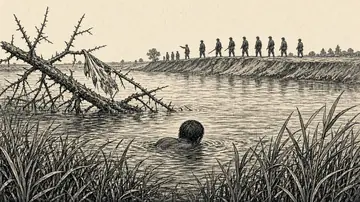
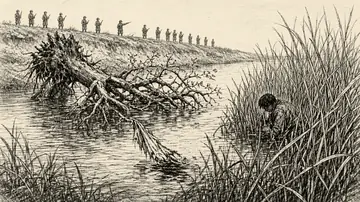
五 我们家：替换插图 p13（跳河一节）为新版，并更新图说
Claude-Session: https://claude.ai/code/session_01Cp3eoT3zaAUDNuq9PFDFqu

diff --git a/hua.html b/hua.html
@@ -27,6 +27,6 @@
 <button id="theme" title="切换夜读">夜读</button>
 <button data-open-toc>目录</button>
 <div class="progress"></div>
-</header><div class="drawer" id="drawer" aria-hidden="true"><div class="scrim" data-close-toc></div><nav aria-label="目录"><button class="close" data-close-toc>关闭 ✕</button><a href="index.html">封面</a><h2>序言</h2><a href="xu.html">序</a><a href="zixu.html">自序</a><h2>往事</h2><a href="c01.html">一 范氏家族</a><a href="c02.html">二 我的祖父母</a><a href="c03.html">三 大爷爷一家</a><a href="c04.html">四 三爷爷一家</a><a href="c05.html">五 我们家</a><a href="c06.html">六 母亲的冤案</a><a href="c07.html">七 挣扎</a><a href="c08.html">八 童年记忆</a><a href="c09.html">九 少年时代</a><a href="c10.html">十 灰色青春</a><a href="c11.html">十一 拨云见日</a><a href="c12.html">十二 沉重年代</a><a href="c13.html">十三 回归</a><h2>生活纪事</h2><a href="j01.html">一 沙果大王赵子洪</a><a href="j02.html">二 白老歪</a><a href="j03.html">三 黄二爷</a><a href="j04.html">四 杨友德</a><a href="j05.html">五 张书华的苦恼</a><a href="j06.html">六 大老妈的牌坊</a><a href="j07.html">七 高维刚</a><a href="j08.html">八“大干苦干加二十三干”</a><a href="j09.html">九 工业大检查</a><h2>后记</h2><a href="houji.html">后记</a><h2>附</h2><a href="hua.html" aria-current="page">画卷</a><a href="about.html">版权页</a></nav></div><main class="section" style="border-top:0"><h2>画卷 · 47 幅</h2><div class="gallery"><a href="zixu.html#p01"><div class="frame"><img src="img/p01.webp" loading="lazy" decoding="async" width="1280" height="720" alt="土炕、木门与水缸，屋门后挂着一绺红丝线"></div><div class="cap"><b>自序</b>套间屋门后里有一绺红丝线，每根线上纫着一根绣花针。</div></a><a href="zixu.html#p02"><div class="frame"><img src="img/p02.webp" loading="lazy" decoding="async" width="1280" height="720" alt="油灯下，奶奶拿着孩子的鞋坐在炕沿，给发烧的孙女叫魂"></div><div class="cap"><b>自序</b>鞋磕炕，炕磕鞋，漫山遍野自己来，建华来家啊。</div></a><a href="c01.html#p03"><div class="frame"><img src="img/p03.webp" loading="lazy" decoding="async" width="1280" height="720" alt="老人骑驴走向石拱桥，远处是村庄与柳树"></div><div class="cap"><b>一 范氏家族</b>有一天他骑着他那头心爱的毛驴去北张氏赶集，过桥时突然驴失前蹄</div></a><a href="c02.html#p04"><div class="frame"><img src="img/p04.webp" loading="lazy" decoding="async" width="1280" height="720" alt="园子里桃树挂果，四周高大的楸树，有人在菜畦里锄地"></div><div class="cap"><b>二 我的祖父母</b>他在分家分到的菜园子周围栽上了一圈楸树，中间栽上了各种果树</div></a><a href="c02.html#p05"><div class="frame"><img src="img/p05.webp" loading="lazy" decoding="async" width="1280" height="720" alt="高粱地头，母亲举起高粱秸，孩子从小毛驴背上跌下"></div><div class="cap"><b>二 我的祖父母</b>抓起一根高粱秸，把他一竿子从驴背上打了下来。</div></a><a href="c02.html#p06"><div class="frame"><img src="img/p06.webp" loading="lazy" decoding="async" width="1280" height="720" alt="小女孩站在炕上，仰头望着墙上吊着的咸干鱼"></div><div class="cap"><b>二 我的祖父母</b>她把鱼吊在炕尾的墙边上，我闻着那个咸干鱼香死了</div></a><a href="c02.html#p07"><div class="frame"><img src="img/p07.webp" loading="lazy" decoding="async" width="1280" height="720" alt="窗台上一张草纸摊着晒干的种子，窗外是菜园"></div><div class="cap"><b>二 我的祖父母</b>哄着那小孩儿把洋柿子的种子挤出来一点，放到一张草纸上，晒干收藏起来。</div></a><a href="c03.html#p08"><div class="frame"><img src="img/p08.webp" loading="lazy" decoding="async" width="1280" height="720" alt="场院里，孩子拉着拴绳的小板凳奔跑，大门口有人张望"></div><div class="cap"><b>三 大爷爷一家</b>叫孩子到场院中央拉着板凳当马，拼命地跑。</div></a><a href="c03.html#p09"><div class="frame"><img src="img/p09.webp" loading="lazy" decoding="async" width="1280" height="720" alt="村外地里，一副打碎的眼镜和一只鞋，脚印延向远处"></div><div class="cap"><b>三 大爷爷一家</b>发现了他被打坏的近视眼镜，再往前又找到他的一只鞋</div></a><a href="c03.html#p10"><div class="frame"><img src="img/p10.webp" loading="lazy" decoding="async" width="1280" height="720" alt="大雨中，两个女人打着油纸伞站在路口"></div><div class="cap"><b>三 大爷爷一家</b>离约定的时间还差一个时辰，她们就冒雨到了约定的地点。</div></a><a href="c04.html#p11"><div class="frame"><img src="img/p11.webp" loading="lazy" decoding="async" width="1280" height="720" alt="西大门口老人高声呼喊，麦田里一个年轻人飞跑"></div><div class="cap"><b>四 三爷爷一家</b>人们事后开玩笑说，他一步跳十八条垅。</div></a><a href="c04.html#p12"><div class="frame"><img src="img/p12.webp" loading="lazy" decoding="async" width="1280" height="720" alt="荒凉的小院，破窗、空鸡笼、石臼与板凳"></div><div class="cap"><b>四 三爷爷一家</b>她也年纪大了，一个人孤苦伶仃过日子，农业社无人管她。</div></a><a href="c05.html#p13"><div class="frame"><img src="img/p13.webp" loading="lazy" decoding="async" width="1280" height="720" alt="河里一人只露出头，岸上一队士兵走过，水中横着带刺的枣树"></div><div class="cap"><b>五 我们家</b>这时人已经跑到了大河边，一个猛子扎进水里。</div></a><a href="c05.html#p14"><div class="frame"><img src="img/p14.webp" loading="lazy" decoding="async" width="1280" height="720" alt="一对年轻夫妇手拉手站在土堆上，村民围着看"></div><div class="cap"><b>五 我们家</b>来！你们到前面来，大大方方地看吧，济着你们看个够。</div></a><a href="c06.html#p15"><div class="frame"><img src="img/p15.webp" loading="lazy" decoding="async" width="1280" height="720" alt="诊室门上贴着交叉的封条，少女站在炕边，弟妹在被窝里"></div><div class="cap"><b>六 母亲的冤案</b>进门看到的是诊室的封条，炕上哭泣的弟弟妹妹。</div></a><a href="c06.html#p16"><div class="frame"><img src="img/p16.webp" loading="lazy" decoding="async" width="1280" height="720" alt="少女抱着襁褓，沿杨树大道走向看守所"></div><div class="cap"><b>六 母亲的冤案</b>急忙回家抱起小弟，跑到沙河镇西郊公安看守所去，让妈妈给小弟喂奶。</div></a><a href="c06.html#p17"><div class="frame"><img src="img/p17.webp" loading="lazy" decoding="async" width="1280" height="720" alt="镇上街头，人群围看墙上的大红纸"></div><div class="cap"><b>六 母亲的冤案</b>爸爸亲笔把仲裁书用大红纸以大字报的形式写出来，贴到大街上。</div></a><a href="c07.html#p18"><div class="frame"><img src="img/p18.webp" loading="lazy" decoding="async" width="1280" height="720" alt="深夜灯下，年轻女子撑着头，一人守着，一人在床上睡"></div><div class="cap"><b>七 挣扎</b>用猎人熬鹰的办法，不让我闭眼，不让休息，不停地盘问</div></a><a href="c07.html#p19"><div class="frame"><img src="img/p19.webp" loading="lazy" decoding="async" width="1280" height="720" alt="大年初一，结冰的河边，母亲蹲着洗衣，女儿骑车远远赶来"></div><div class="cap"><b>七 挣扎</b>远远地看见光秃秃的河岸边，一个老妇人佝偻着身体，独自一人在河里洗衣服</div></a><a href="c08.html#p20"><div class="frame"><img src="img/p20.webp" loading="lazy" decoding="async" width="1280" height="720" alt="院墙下一排向日葵，墙头站着母鸡，筐边一只白老鼠"></div><div class="cap"><b>八 童年记忆</b>本应该向南的花头却朝向北。</div></a><a href="c08.html#p21"><div class="frame"><img src="img/p21.webp" loading="lazy" decoding="async" width="1280" height="720" alt="孩子骑在果树杈上，树下一群小鸡围着转"></div><div class="cap"><b>八 童年记忆</b>小鸡们在树下吱吱叫着，围着树团团转</div></a><a href="c08.html#p22"><div class="frame"><img src="img/p22.webp" loading="lazy" decoding="async" width="1280" height="720" alt="中秋月下，孩子们捧着小笸箩聚在井台边"></div><div class="cap"><b>八 童年记忆</b>念月儿来，念月儿来，一斗麦子一个来</div></a><a href="c09.html#p23"><div class="frame"><img src="img/p23.webp" loading="lazy" decoding="async" width="1280" height="720" alt="村头土台上两人扛着镢头演出，村民坐满场院"></div><div class="cap"><b>九 少年时代</b>在农闲时参加村里青年们排练的小歌舞剧，很受村民和孩子们的追捧。</div></a><a href="c09.html#p24"><div class="frame"><img src="img/p24.webp" loading="lazy" decoding="async" width="1280" height="720" alt="灯下少女坐在床边写字，小弟弟枕着她的腿睡着"></div><div class="cap"><b>九 少年时代</b>等弟弟玩得睏了，就让他躺在我腿上睡着，我在他的肚子上写作业。</div></a><a href="c10.html#p25"><div class="frame"><img src="img/p25.webp" loading="lazy" decoding="async" width="1280" height="720" alt="夜里的站台，女儿提着箱子登车回望，母亲送别"></div><div class="cap"><b>十 灰色青春</b>回到潍坊第二天晚上，妈妈送我到车站，我顺利地乘上了去东北的火车。</div></a><a href="c10.html#p26"><div class="frame"><img src="img/p26.webp" loading="lazy" decoding="async" width="1280" height="720" alt="两扇牢门半掩，一根大葱从一边抛向另一边"></div><div class="cap"><b>十 灰色青春</b>他也同样把另一扇门推小一点， 我趁机把葱扔给他。</div></a><a href="c11.html#p27"><div class="frame"><img src="img/p27.webp" loading="lazy" decoding="async" width="1280" height="720" alt="办公桌上一只档案袋、墨水瓶与算盘，窗外是矿井井架"></div><div class="cap"><b>十一 拨云见日</b>按程序把我的档案、工作关系转给了我们矿党委干部科，恢复了我的在编干部关系</div></a><a href="c12.html#p28"><div class="frame"><img src="img/p28.webp" loading="lazy" decoding="async" width="1280" height="720" alt="夜里大喇叭作响，几个戴袖章的人扛着一包印章跑过办公楼"></div><div class="cap"><b>十二 沉重年代</b>把各个科室的印章没收了一大包，藏起来啦。</div></a><a href="c12.html#p29"><div class="frame"><img src="img/p29.webp" loading="lazy" decoding="async" width="1280" height="720" alt="站台上人群挤向列车，有人从车窗往里爬"></div><div class="cap"><b>十二 沉重年代</b>好多人是硬从车窗上爬进来的。</div></a><a href="c12.html#p30"><div class="frame"><img src="img/p30.webp" loading="lazy" decoding="async" width="1280" height="720" alt="旷野上无数人席地而坐，远处尘土飞扬"></div><div class="cap"><b>十二 沉重年代</b>按编制排好队，席地而坐，等着吧。</div></a><a href="c13.html#p31"><div class="frame"><img src="img/p31.webp" loading="lazy" decoding="async" width="1280" height="720" alt="办公楼后，一个女人把粮票递给蹲着挖野菜的大嫂"></div><div class="cap"><b>十三 回归</b>她十分感激我解了她的燃眉之急，顺便拉起山东老家，又攀上了老乡关系。</div></a><a href="c13.html#p32"><div class="frame"><img src="img/p32.webp" loading="lazy" decoding="async" width="1280" height="720" alt="雪天办公室里，女子读信，门口站着一位老干部"></div><div class="cap"><b>十三 回归</b>年三十下午提前放假，我特意在办公室留到最后</div></a><a href="c13.html#p33"><div class="frame"><img src="img/p33.webp" loading="lazy" decoding="async" width="1280" height="720" alt="雪地铁路旁，母亲领着孩子守着行李，火车开来"></div><div class="cap"><b>十三 回归</b>一家大小才买上了车票，登上了返回老家的火车。</div></a><a href="j01.html#p34"><div class="frame"><img src="img/p34.webp" loading="lazy" decoding="async" width="1280" height="720" alt="一车香瓜，家属在车上挑拣，女教师站出来说理，看门人拦着众人"></div><div class="cap"><b>一 沙果大王赵子洪</b>就见他只让矿领导的家属们先到车上挑拣，我们不准靠前。</div></a><a href="j02.html#p35"><div class="frame"><img src="img/p35.webp" loading="lazy" decoding="async" width="1280" height="720" alt="澡堂门口，女教师站在门槛上，白老歪夫妇堵门，三个孩子在哭，众人围看"></div><div class="cap"><b>二 白老歪</b>我站在门槛上，居高临下，喊了一声：“白大哥你好？”</div></a><a href="j03.html#p36"><div class="frame"><img src="img/p36.webp" loading="lazy" decoding="async" width="1280" height="720" alt="书记办公室门外，一个老干部立正擦汗"></div><div class="cap"><b>三 黄二爷</b>不大一会儿，刘科长气喘吁吁跑步来到，五十多岁的老头子立正站在办公室门外。</div></a><a href="j04.html#p37"><div class="frame"><img src="img/p37.webp" loading="lazy" decoding="async" width="1280" height="720" alt="一只手合上桌上的墨水盒，旁边是电话听筒与蘸水笔"></div><div class="cap"><b>四 杨友德</b>举报人拿过他桌子上的墨水盒，把敞开的盒盖儿一盖</div></a><a href="j05.html#p38"><div class="frame"><img src="img/p38.webp" loading="lazy" decoding="async" width="1280" height="720" alt="矿区土路正中，一个女人提着奶桶昂首走着"></div><div class="cap"><b>五 张书华的苦恼</b>我真的大着胆子，挺胸抬头走了大道中间</div></a><a href="j06.html#p39"><div class="frame"><img src="img/p39.webp" loading="lazy" decoding="async" width="1280" height="720" alt="大宅院里，年轻寡妇弯腰搬动一排排土坯"></div><div class="cap"><b>六 大老妈的牌坊</b>你需要干的活儿，就是白天把这些堲搬到院子里晒，晚上搬进屋里来</div></a><a href="j06.html#p40"><div class="frame"><img src="img/p40.webp" loading="lazy" decoding="async" width="1280" height="720" alt="大道旁的石牌坊下，赶集的人歇脚"></div><div class="cap"><b>六 大老妈的牌坊</b>我记得小时候去南张市赶集，大道旁的石牌坊就是我们歇脚的地方。</div></a><a href="j07.html#p41"><div class="frame"><img src="img/p41.webp" loading="lazy" decoding="async" width="1280" height="720" alt="简陋工作室里，女子修理仪器，门口挤着戴安全帽的工人"></div><div class="cap"><b>七 高维刚</b>每天上了班，就像在业余时间搞的无线电实验，很感兴趣</div></a><a href="j07.html#p42"><div class="frame"><img src="img/p42.webp" loading="lazy" decoding="async" width="1280" height="720" alt="雪后矿区的排房间，一个人挑着鸡蛋和蔬菜走来"></div><div class="cap"><b>七 高维刚</b>他亲自用扁担挑着一担礼物来了，前头是一桶鸡蛋，后头是一筐食品和蔬菜。</div></a><a href="j08.html#p43"><div class="frame"><img src="img/p43.webp" loading="lazy" decoding="async" width="1280" height="720" alt="职工大会，台下哄堂大笑，台角秘书捂脸"></div><div class="cap"><b>八“大干苦干加二十三干”</b>领导在台上就念了个“我们要大干苦干加23干”。台下都笑了，秘书吓尿了。</div></a><a href="j09.html#p44"><div class="frame"><img src="img/p44.webp" loading="lazy" decoding="async" width="1280" height="720" alt="食堂里厨师擀皮，饺子皮飞起，检查团围桌而坐"></div><div class="cap"><b>九 工业大检查</b>一个人同时擀十张饺子皮供十个人包饺子</div></a><a href="houji.html#p45"><div class="frame"><img src="img/p45.webp" loading="lazy" decoding="async" width="1280" height="720" alt="租来的老屋里，母亲拉风箱做饭，孩子们在炕桌上读书"></div><div class="cap"><b>后记</b>我得上班，还要每天做三顿饭，拉风箱烧煤炭，忙得我脚打后脑勺儿。</div></a><a href="houji.html#p46"><div class="frame"><img src="img/p46.webp" loading="lazy" decoding="async" width="1280" height="720" alt="海边步道上，老人拄杖与女儿同行，天上一行候鸟"></div><div class="cap"><b>后记</b>冬去春来，我们做了四年的候鸟。</div></a><a href="houji.html#p47"><div class="frame"><img src="img/p47.webp" loading="lazy" decoding="async" width="1280" height="720" alt="沙漠山脚下的后院，老人在菜畦里侍弄番茄"></div><div class="cap"><b>后记</b>我有了私人空间，有了种菜养花的后院</div></a></div></main></div><footer class="site">往事 · 老建回忆录 · 范建华 著<br>Copyright©2022老建 · 版权所有，侵权必究<br><a href="about.html">版权页</a></footer>
+</header><div class="drawer" id="drawer" aria-hidden="true"><div class="scrim" data-close-toc></div><nav aria-label="目录"><button class="close" data-close-toc>关闭 ✕</button><a href="index.html">封面</a><h2>序言</h2><a href="xu.html">序</a><a href="zixu.html">自序</a><h2>往事</h2><a href="c01.html">一 范氏家族</a><a href="c02.html">二 我的祖父母</a><a href="c03.html">三 大爷爷一家</a><a href="c04.html">四 三爷爷一家</a><a href="c05.html">五 我们家</a><a href="c06.html">六 母亲的冤案</a><a href="c07.html">七 挣扎</a><a href="c08.html">八 童年记忆</a><a href="c09.html">九 少年时代</a><a href="c10.html">十 灰色青春</a><a href="c11.html">十一 拨云见日</a><a href="c12.html">十二 沉重年代</a><a href="c13.html">十三 回归</a><h2>生活纪事</h2><a href="j01.html">一 沙果大王赵子洪</a><a href="j02.html">二 白老歪</a><a href="j03.html">三 黄二爷</a><a href="j04.html">四 杨友德</a><a href="j05.html">五 张书华的苦恼</a><a href="j06.html">六 大老妈的牌坊</a><a href="j07.html">七 高维刚</a><a href="j08.html">八“大干苦干加二十三干”</a><a href="j09.html">九 工业大检查</a><h2>后记</h2><a href="houji.html">后记</a><h2>附</h2><a href="hua.html" aria-current="page">画卷</a><a href="about.html">版权页</a></nav></div><main class="section" style="border-top:0"><h2>画卷 · 47 幅</h2><div class="gallery"><a href="zixu.html#p01"><div class="frame"><img src="img/p01.webp" loading="lazy" decoding="async" width="1280" height="720" alt="土炕、木门与水缸，屋门后挂着一绺红丝线"></div><div class="cap"><b>自序</b>套间屋门后里有一绺红丝线，每根线上纫着一根绣花针。</div></a><a href="zixu.html#p02"><div class="frame"><img src="img/p02.webp" loading="lazy" decoding="async" width="1280" height="720" alt="油灯下，奶奶拿着孩子的鞋坐在炕沿，给发烧的孙女叫魂"></div><div class="cap"><b>自序</b>鞋磕炕，炕磕鞋，漫山遍野自己来，建华来家啊。</div></a><a href="c01.html#p03"><div class="frame"><img src="img/p03.webp" loading="lazy" decoding="async" width="1280" height="720" alt="老人骑驴走向石拱桥，远处是村庄与柳树"></div><div class="cap"><b>一 范氏家族</b>有一天他骑着他那头心爱的毛驴去北张氏赶集，过桥时突然驴失前蹄</div></a><a href="c02.html#p04"><div class="frame"><img src="img/p04.webp" loading="lazy" decoding="async" width="1280" height="720" alt="园子里桃树挂果，四周高大的楸树，有人在菜畦里锄地"></div><div class="cap"><b>二 我的祖父母</b>他在分家分到的菜园子周围栽上了一圈楸树，中间栽上了各种果树</div></a><a href="c02.html#p05"><div class="frame"><img src="img/p05.webp" loading="lazy" decoding="async" width="1280" height="720" alt="高粱地头，母亲举起高粱秸，孩子从小毛驴背上跌下"></div><div class="cap"><b>二 我的祖父母</b>抓起一根高粱秸，把他一竿子从驴背上打了下来。</div></a><a href="c02.html#p06"><div class="frame"><img src="img/p06.webp" loading="lazy" decoding="async" width="1280" height="720" alt="小女孩站在炕上，仰头望着墙上吊着的咸干鱼"></div><div class="cap"><b>二 我的祖父母</b>她把鱼吊在炕尾的墙边上，我闻着那个咸干鱼香死了</div></a><a href="c02.html#p07"><div class="frame"><img src="img/p07.webp" loading="lazy" decoding="async" width="1280" height="720" alt="窗台上一张草纸摊着晒干的种子，窗外是菜园"></div><div class="cap"><b>二 我的祖父母</b>哄着那小孩儿把洋柿子的种子挤出来一点，放到一张草纸上，晒干收藏起来。</div></a><a href="c03.html#p08"><div class="frame"><img src="img/p08.webp" loading="lazy" decoding="async" width="1280" height="720" alt="场院里，孩子拉着拴绳的小板凳奔跑，大门口有人张望"></div><div class="cap"><b>三 大爷爷一家</b>叫孩子到场院中央拉着板凳当马，拼命地跑。</div></a><a href="c03.html#p09"><div class="frame"><img src="img/p09.webp" loading="lazy" decoding="async" width="1280" height="720" alt="村外地里，一副打碎的眼镜和一只鞋，脚印延向远处"></div><div class="cap"><b>三 大爷爷一家</b>发现了他被打坏的近视眼镜，再往前又找到他的一只鞋</div></a><a href="c03.html#p10"><div class="frame"><img src="img/p10.webp" loading="lazy" decoding="async" width="1280" height="720" alt="大雨中，两个女人打着油纸伞站在路口"></div><div class="cap"><b>三 大爷爷一家</b>离约定的时间还差一个时辰，她们就冒雨到了约定的地点。</div></a><a href="c04.html#p11"><div class="frame"><img src="img/p11.webp" loading="lazy" decoding="async" width="1280" height="720" alt="西大门口老人高声呼喊，麦田里一个年轻人飞跑"></div><div class="cap"><b>四 三爷爷一家</b>人们事后开玩笑说，他一步跳十八条垅。</div></a><a href="c04.html#p12"><div class="frame"><img src="img/p12.webp" loading="lazy" decoding="async" width="1280" height="720" alt="荒凉的小院，破窗、空鸡笼、石臼与板凳"></div><div class="cap"><b>四 三爷爷一家</b>她也年纪大了，一个人孤苦伶仃过日子，农业社无人管她。</div></a><a href="c05.html#p13"><div class="frame"><img src="img/p13.webp" loading="lazy" decoding="async" width="1280" height="720" alt="歪倒在河里的枣树，一人藏身芦苇丛中，岸上一队士兵举枪指点"></div><div class="cap"><b>五 我们家</b>这时人已经跑到了大河边，一个猛子扎进水里。</div></a><a href="c05.html#p14"><div class="frame"><img src="img/p14.webp" loading="lazy" decoding="async" width="1280" height="720" alt="一对年轻夫妇手拉手站在土堆上，村民围着看"></div><div class="cap"><b>五 我们家</b>来！你们到前面来，大大方方地看吧，济着你们看个够。</div></a><a href="c06.html#p15"><div class="frame"><img src="img/p15.webp" loading="lazy" decoding="async" width="1280" height="720" alt="诊室门上贴着交叉的封条，少女站在炕边，弟妹在被窝里"></div><div class="cap"><b>六 母亲的冤案</b>进门看到的是诊室的封条，炕上哭泣的弟弟妹妹。</div></a><a href="c06.html#p16"><div class="frame"><img src="img/p16.webp" loading="lazy" decoding="async" width="1280" height="720" alt="少女抱着襁褓，沿杨树大道走向看守所"></div><div class="cap"><b>六 母亲的冤案</b>急忙回家抱起小弟，跑到沙河镇西郊公安看守所去，让妈妈给小弟喂奶。</div></a><a href="c06.html#p17"><div class="frame"><img src="img/p17.webp" loading="lazy" decoding="async" width="1280" height="720" alt="镇上街头，人群围看墙上的大红纸"></div><div class="cap"><b>六 母亲的冤案</b>爸爸亲笔把仲裁书用大红纸以大字报的形式写出来，贴到大街上。</div></a><a href="c07.html#p18"><div class="frame"><img src="img/p18.webp" loading="lazy" decoding="async" width="1280" height="720" alt="深夜灯下，年轻女子撑着头，一人守着，一人在床上睡"></div><div class="cap"><b>七 挣扎</b>用猎人熬鹰的办法，不让我闭眼，不让休息，不停地盘问</div></a><a href="c07.html#p19"><div class="frame"><img src="img/p19.webp" loading="lazy" decoding="async" width="1280" height="720" alt="大年初一，结冰的河边，母亲蹲着洗衣，女儿骑车远远赶来"></div><div class="cap"><b>七 挣扎</b>远远地看见光秃秃的河岸边，一个老妇人佝偻着身体，独自一人在河里洗衣服</div></a><a href="c08.html#p20"><div class="frame"><img src="img/p20.webp" loading="lazy" decoding="async" width="1280" height="720" alt="院墙下一排向日葵，墙头站着母鸡，筐边一只白老鼠"></div><div class="cap"><b>八 童年记忆</b>本应该向南的花头却朝向北。</div></a><a href="c08.html#p21"><div class="frame"><img src="img/p21.webp" loading="lazy" decoding="async" width="1280" height="720" alt="孩子骑在果树杈上，树下一群小鸡围着转"></div><div class="cap"><b>八 童年记忆</b>小鸡们在树下吱吱叫着，围着树团团转</div></a><a href="c08.html#p22"><div class="frame"><img src="img/p22.webp" loading="lazy" decoding="async" width="1280" height="720" alt="中秋月下，孩子们捧着小笸箩聚在井台边"></div><div class="cap"><b>八 童年记忆</b>念月儿来，念月儿来，一斗麦子一个来</div></a><a href="c09.html#p23"><div class="frame"><img src="img/p23.webp" loading="lazy" decoding="async" width="1280" height="720" alt="村头土台上两人扛着镢头演出，村民坐满场院"></div><div class="cap"><b>九 少年时代</b>在农闲时参加村里青年们排练的小歌舞剧，很受村民和孩子们的追捧。</div></a><a href="c09.html#p24"><div class="frame"><img src="img/p24.webp" loading="lazy" decoding="async" width="1280" height="720" alt="灯下少女坐在床边写字，小弟弟枕着她的腿睡着"></div><div class="cap"><b>九 少年时代</b>等弟弟玩得睏了，就让他躺在我腿上睡着，我在他的肚子上写作业。</div></a><a href="c10.html#p25"><div class="frame"><img src="img/p25.webp" loading="lazy" decoding="async" width="1280" height="720" alt="夜里的站台，女儿提着箱子登车回望，母亲送别"></div><div class="cap"><b>十 灰色青春</b>回到潍坊第二天晚上，妈妈送我到车站，我顺利地乘上了去东北的火车。</div></a><a href="c10.html#p26"><div class="frame"><img src="img/p26.webp" loading="lazy" decoding="async" width="1280" height="720" alt="两扇牢门半掩，一根大葱从一边抛向另一边"></div><div class="cap"><b>十 灰色青春</b>他也同样把另一扇门推小一点， 我趁机把葱扔给他。</div></a><a href="c11.html#p27"><div class="frame"><img src="img/p27.webp" loading="lazy" decoding="async" width="1280" height="720" alt="办公桌上一只档案袋、墨水瓶与算盘，窗外是矿井井架"></div><div class="cap"><b>十一 拨云见日</b>按程序把我的档案、工作关系转给了我们矿党委干部科，恢复了我的在编干部关系</div></a><a href="c12.html#p28"><div class="frame"><img src="img/p28.webp" loading="lazy" decoding="async" width="1280" height="720" alt="夜里大喇叭作响，几个戴袖章的人扛着一包印章跑过办公楼"></div><div class="cap"><b>十二 沉重年代</b>把各个科室的印章没收了一大包，藏起来啦。</div></a><a href="c12.html#p29"><div class="frame"><img src="img/p29.webp" loading="lazy" decoding="async" width="1280" height="720" alt="站台上人群挤向列车，有人从车窗往里爬"></div><div class="cap"><b>十二 沉重年代</b>好多人是硬从车窗上爬进来的。</div></a><a href="c12.html#p30"><div class="frame"><img src="img/p30.webp" loading="lazy" decoding="async" width="1280" height="720" alt="旷野上无数人席地而坐，远处尘土飞扬"></div><div class="cap"><b>十二 沉重年代</b>按编制排好队，席地而坐，等着吧。</div></a><a href="c13.html#p31"><div class="frame"><img src="img/p31.webp" loading="lazy" decoding="async" width="1280" height="720" alt="办公楼后，一个女人把粮票递给蹲着挖野菜的大嫂"></div><div class="cap"><b>十三 回归</b>她十分感激我解了她的燃眉之急，顺便拉起山东老家，又攀上了老乡关系。</div></a><a href="c13.html#p32"><div class="frame"><img src="img/p32.webp" loading="lazy" decoding="async" width="1280" height="720" alt="雪天办公室里，女子读信，门口站着一位老干部"></div><div class="cap"><b>十三 回归</b>年三十下午提前放假，我特意在办公室留到最后</div></a><a href="c13.html#p33"><div class="frame"><img src="img/p33.webp" loading="lazy" decoding="async" width="1280" height="720" alt="雪地铁路旁，母亲领着孩子守着行李，火车开来"></div><div class="cap"><b>十三 回归</b>一家大小才买上了车票，登上了返回老家的火车。</div></a><a href="j01.html#p34"><div class="frame"><img src="img/p34.webp" loading="lazy" decoding="async" width="1280" height="720" alt="一车香瓜，家属在车上挑拣，女教师站出来说理，看门人拦着众人"></div><div class="cap"><b>一 沙果大王赵子洪</b>就见他只让矿领导的家属们先到车上挑拣，我们不准靠前。</div></a><a href="j02.html#p35"><div class="frame"><img src="img/p35.webp" loading="lazy" decoding="async" width="1280" height="720" alt="澡堂门口，女教师站在门槛上，白老歪夫妇堵门，三个孩子在哭，众人围看"></div><div class="cap"><b>二 白老歪</b>我站在门槛上，居高临下，喊了一声：“白大哥你好？”</div></a><a href="j03.html#p36"><div class="frame"><img src="img/p36.webp" loading="lazy" decoding="async" width="1280" height="720" alt="书记办公室门外，一个老干部立正擦汗"></div><div class="cap"><b>三 黄二爷</b>不大一会儿，刘科长气喘吁吁跑步来到，五十多岁的老头子立正站在办公室门外。</div></a><a href="j04.html#p37"><div class="frame"><img src="img/p37.webp" loading="lazy" decoding="async" width="1280" height="720" alt="一只手合上桌上的墨水盒，旁边是电话听筒与蘸水笔"></div><div class="cap"><b>四 杨友德</b>举报人拿过他桌子上的墨水盒，把敞开的盒盖儿一盖</div></a><a href="j05.html#p38"><div class="frame"><img src="img/p38.webp" loading="lazy" decoding="async" width="1280" height="720" alt="矿区土路正中，一个女人提着奶桶昂首走着"></div><div class="cap"><b>五 张书华的苦恼</b>我真的大着胆子，挺胸抬头走了大道中间</div></a><a href="j06.html#p39"><div class="frame"><img src="img/p39.webp" loading="lazy" decoding="async" width="1280" height="720" alt="大宅院里，年轻寡妇弯腰搬动一排排土坯"></div><div class="cap"><b>六 大老妈的牌坊</b>你需要干的活儿，就是白天把这些堲搬到院子里晒，晚上搬进屋里来</div></a><a href="j06.html#p40"><div class="frame"><img src="img/p40.webp" loading="lazy" decoding="async" width="1280" height="720" alt="大道旁的石牌坊下，赶集的人歇脚"></div><div class="cap"><b>六 大老妈的牌坊</b>我记得小时候去南张市赶集，大道旁的石牌坊就是我们歇脚的地方。</div></a><a href="j07.html#p41"><div class="frame"><img src="img/p41.webp" loading="lazy" decoding="async" width="1280" height="720" alt="简陋工作室里，女子修理仪器，门口挤着戴安全帽的工人"></div><div class="cap"><b>七 高维刚</b>每天上了班，就像在业余时间搞的无线电实验，很感兴趣</div></a><a href="j07.html#p42"><div class="frame"><img src="img/p42.webp" loading="lazy" decoding="async" width="1280" height="720" alt="雪后矿区的排房间，一个人挑着鸡蛋和蔬菜走来"></div><div class="cap"><b>七 高维刚</b>他亲自用扁担挑着一担礼物来了，前头是一桶鸡蛋，后头是一筐食品和蔬菜。</div></a><a href="j08.html#p43"><div class="frame"><img src="img/p43.webp" loading="lazy" decoding="async" width="1280" height="720" alt="职工大会，台下哄堂大笑，台角秘书捂脸"></div><div class="cap"><b>八“大干苦干加二十三干”</b>领导在台上就念了个“我们要大干苦干加23干”。台下都笑了，秘书吓尿了。</div></a><a href="j09.html#p44"><div class="frame"><img src="img/p44.webp" loading="lazy" decoding="async" width="1280" height="720" alt="食堂里厨师擀皮，饺子皮飞起，检查团围桌而坐"></div><div class="cap"><b>九 工业大检查</b>一个人同时擀十张饺子皮供十个人包饺子</div></a><a href="houji.html#p45"><div class="frame"><img src="img/p45.webp" loading="lazy" decoding="async" width="1280" height="720" alt="租来的老屋里，母亲拉风箱做饭，孩子们在炕桌上读书"></div><div class="cap"><b>后记</b>我得上班，还要每天做三顿饭，拉风箱烧煤炭，忙得我脚打后脑勺儿。</div></a><a href="houji.html#p46"><div class="frame"><img src="img/p46.webp" loading="lazy" decoding="async" width="1280" height="720" alt="海边步道上，老人拄杖与女儿同行，天上一行候鸟"></div><div class="cap"><b>后记</b>冬去春来，我们做了四年的候鸟。</div></a><a href="houji.html#p47"><div class="frame"><img src="img/p47.webp" loading="lazy" decoding="async" width="1280" height="720" alt="沙漠山脚下的后院，老人在菜畦里侍弄番茄"></div><div class="cap"><b>后记</b>我有了私人空间，有了种菜养花的后院</div></a></div></main></div><footer class="site">往事 · 老建回忆录 · 范建华 著<br>Copyright©2022老建 · 版权所有，侵权必究<br><a href="about.html">版权页</a></footer>
 <script src="app.js"></script>
 </body></html>

diff --git a/c05.html b/c05.html
@@ -35,7 +35,7 @@
 <p>在爸爸断断续续的回忆中有几大事件，他自己也说，他是命大运气好，历经多次危险，最后都死里逃生。</p>
 <p>为了组织地方武装，爸爸和他的同志们经常深入敌战区，而敌战区又有敌人的眼线和投敌变节者。潍坊市的革命烈士耿锡章是他忘年交的老朋友，也是革命党人的一个秘密联络员。有一天爸爸从他家路过，跟他把事情交代完了，就回潍北去看家，走了不到半个点儿，国民党的缉捕队，就堵住了耿家的大门，说有人亲眼看见范问渠这个共党分子进了耿家。搜了半天没搜到，便将耿锡章拷打逼问，最后把老人家绑在梯子上头朝下，他还不说，又在梯子底下点上火烤他，直到把他活活折磨死，也没问出人到哪里去了。每逢讲到这一段，爸爸总是涕泪交流地说：“是耿老爷子用命保护了我，如果当时他供出人去了北面范家庄，敌人不费吹灰之力就可得手。”</p>
 <p>另一次是爸爸出差到一个联络点，进了村就被坏人发现了。那个联络点的房东老大娘刚好是他的干妈，一看情况不对，前门已经被堵住，就让他赶紧从后门跳墙逃跑。他一连跳过第五家的墙头时回头一看，追他的人已经跳上了第三家的墙头。最后他跳出第七道墙，满以为可以沿着街道跑到城外去，哪知道大街另一端大批的汉奸兵进村了，发现了他远远地跑，就边追边喊：“抓活的，不要放枪！” 那时候爸爸什么也顾不上想了，撒丫子跑啊。快到村口了，后边儿追他的敌人放了一枪，他就地摔了一跤。听后面高喊“打上了，打上了”，追的人也慢下来了。爸爸趴在地上摸了一下腿，没有血，知道没受伤，便“腾”地一下跳起来，飞快地往城外跑去。后面的人原以为他已经被打中了，可以喘口气慢慢地来抓，他这突然的行动把他们弄蒙了，又追。但这时人已经跑到了大河边，一个猛子扎进水里。也很倒霉，河水中有一颗歪倒在水里的枣树，他被枣树的枝子挂住衣服刺伤了身体，当时也顾不得疼，拼命挣扎，挣脱了树枝，钻进了芦苇丛中。回头看时，大队人马已经站满了河沿。有人指着在树枝上慢慢流着的血说：“看那血，人受伤了，跳进河里淹死了。” 有个人拿枪对着河里和他藏身的芦苇丛里一阵扫射，骂骂咧咧地把队伍拉走了。危险过去了，爸爸仔细检查了一下，衣服撕碎了，裤子也破了，腰里的枪进了水和泥沙，没法用了，不到天黑是不能上岸的。等到黑天了，人静了，他才悄悄地进村，回到了干妈家里。那时的老百姓就是好，干妈给他找出了自己老伴的衣服换上，包扎了伤口，吃了饭，连夜送他返回了连队。那是他生命中的一劫，又让他逃过了。</p>
-<figure class="plate" id="p13"><div class="frame"><img src="img/p13.webp" width="1280" height="720" loading="lazy" decoding="async" alt="河里一人只露出头，岸上一队士兵走过，水中横着带刺的枣树"></div><figcaption><q>这时人已经跑到了大河边，一个猛子扎进水里。</q></figcaption></figure>
+<figure class="plate" id="p13"><div class="frame"><img src="img/p13.webp" width="1280" height="720" loading="lazy" decoding="async" alt="歪倒在河里的枣树，一人藏身芦苇丛中，岸上一队士兵举枪指点"></div><figcaption><q>这时人已经跑到了大河边，一个猛子扎进水里。</q></figcaption></figure>
 <p>在潍坊的革命形势趋于低潮时，山东省成立了特支委，爸爸必须要经常在济南与潍县城之间来回奔波，联络。内部出了汉奸叛徒，知道他的习惯是火车到站，最后一个下车，跳下车很快钻进人群中，有时去接他的人也不一定看到他，不知道详情的人很难找到。可他这一次突然心血来潮，一改过去的习惯，火车速度刚一慢下来尚未进站时，他嗖一下跳下火车，很快隐蔽了起来。那天真就是一个叛徒领着汉奸和鬼子都在站台上，满以为能逮住他呢！可等到最后没见到，叛徒带着鬼子兵，马上去了他们经常驻足的地方“汇东大药房”去抓他，搜了一遍没见人，才由东门撤走了。爸爸并不知道这一切，仍然从西门进去，掌柜和伙计们送走了鬼子兵，回头一看，他正站在背后。吓得老板倒退老远，伙计们也吓坏了，赶快把他带到后堂惊愕地说：“来抓你的鬼子知道你今天来，在车站没等到你，急忙赶到这里翻，我们大家刚打发他们出了东门，你却从西门进来了，吓死我们了！”  就是这一次的偶然变化，他又幸运地躲过了一劫。</p>
 <p>当年他们的抗日武装大部分是由他们学校高年级的学生组成。我听爸爸说，后来他们被上级整编成了游击形式。杨国夫是他们的司令员，是上级派来的人，李仁峰是他们的团长。队伍越来越壮大了，就不断有人被派去延安学习，延安也派干部到他们这里。后来派来一位级别较高的干部叫包剑寒的，对他们原有的人员指手划脚无端批评。爸爸看不惯就与他对着干，关系闹得很僵。结果包想出了一个坏点子，骗他说要派他到延安去学习，他知道学习是借口，让他交出权力才是目的，只好暗暗观察。只见包从队伍中抽出部分精壮士兵，偷偷摸摸地集训，封锁消息。到了临近行动的时候，包亲自跟爸爸谈话，告诉他可以带兵通过敌人的封锁线，护送他过铁路。包还说，在铁路这边部队仍归他指挥，手枪仍然带着，但因为铁路的对面是敌占区，过铁路后只能让部队返回，然后爸爸独自化妆潜行到延安。幸好妈妈的一个学生因参加了他们的集训活动，知道内情，便偷偷去告诉了妈妈，叫爸爸千万别过铁路。包设下的计策是以派去延安学习为借口，在铁路北边绝不动手，一旦过了铁路就开枪击毙，理由就是过铁路时他向敌人那边跑，投敌叛变了。那天一支十几人的小分队，让爸爸带着出发了，天黑前到达一个离铁路还有三十里的村庄，扎营住下，让大家好好休息，半夜起来偷过铁路。爸爸下令，他要早早睡觉，谁也不准来他休息的地方打搅。因本来就说好的在过铁路之前队伍绝对服从他的指挥，再加上战士们一天急行军早已困乏，很快就都入睡了。爸爸查岗一圈以后，见没有人盯着，稍事休息，把自己的军装一脱，把早已预备好的衣服换上，枪、皮带和部队的身份凭证等一切物品一并留在屋子里，还写下一张字条，声明自己返回地方去了，便离开了那个陷害他的死亡之地。后来包向解放区发了缉捕令，要求地方党组如果见到这个人，不必报批就地枪毙。所以那段日子，爸爸是进退两难，国民党、日本鬼子抓他，因为他是共产党；而自己的部队又以他是托派也抓捕他。他是上天无路入地无门。躲过一阵子，他返回了原先组织部队的老家，老同志们都来保护他，都说根本就不相信那份所谓的通知。好在几年以后，这个迫害爸爸的包剑寒自己暴露了，被上级派人来以托派分子的罪名枪毙了。实际上包剑寒才是真正的托派分子，被就地处决，给爸爸平了反。</p>
 <p>因他遭受包剑寒托派事件的影响，好多原来的朋友，有的丢掉了性命，有的被逼无奈投敌叛变。他曾提及好朋友耿一凡，因受到他的牵连，在延安入狱审查八个月。也说起过另外有一位在胶东军区的西医大夫，是国外留学的，开了一家私营的医院，夫妇两个有了两个孩子。在爸爸“先交朋友后发展为党员”的动员下，他们由同情革命到带着医院全部资产投奔了革命事业。因为爸爸被诬蔑成托派，到处被追杀，他们夫妇两个受到连累，被扣上钻入党内的托派分子的帽子，在毫无防备的情况下，被拉出去杀掉了。当时他们的大孩子只有五岁，小的一岁，后来怎样了谁也不知道。爸爸被平反以后去找过他们，可是两个孩子早已杳无音信，连影子也没找到。爸爸曾对我讲过：“我最痛心最对不起的，就是这个朋友和他的一家。”尽管经过无数次的事件，爸爸始终坚信共产党必胜。</p>

diff --git a/tools/plates.py b/tools/plates.py
@@ -13,7 +13,7 @@ PLATES = [
     ("c03", "04_三_大爷爷一家_3", "冒雨到了约定的地点", "离约定的时间还差一个时辰，她们就冒雨到了约定的地点。", "大雨中，两个女人打着油纸伞站在路口"),
     ("c04", "05_四_三爷爷一家_1", "一步跳十八条垅", "人们事后开玩笑说，他一步跳十八条垅。", "西大门口老人高声呼喊，麦田里一个年轻人飞跑"),
     ("c04", "05_四_三爷爷一家_2", "老鼠啃掉了脚后跟", "她也年纪大了，一个人孤苦伶仃过日子，农业社无人管她。", "荒凉的小院，破窗、空鸡笼、石臼与板凳"),
-    ("c05", "06_五_我们家_1", "歪倒在水里的枣树", "这时人已经跑到了大河边，一个猛子扎进水里。", "河里一人只露出头，岸上一队士兵走过，水中横着带刺的枣树"),
+    ("c05", "06_五_我们家_1", "歪倒在水里的枣树", "这时人已经跑到了大河边，一个猛子扎进水里。", "歪倒在河里的枣树，一人藏身芦苇丛中，岸上一队士兵举枪指点"),
     ("c05", "06_五_我们家_2", "登上土堆并排站好", "来！你们到前面来，大大方方地看吧，济着你们看个够。", "一对年轻夫妇手拉手站在土堆上，村民围着看"),
     ("c06", "07_六_母亲的冤案_1", "诊室的封条", "进门看到的是诊室的封条，炕上哭泣的弟弟妹妹。", "诊室门上贴着交叉的封条，少女站在炕边，弟妹在被窝里"),
     ("c06", "07_六_母亲的冤案_2", "跑到沙河镇西郊公安看守所去", "急忙回家抱起小弟，跑到沙河镇西郊公安看守所去，让妈妈给小弟喂奶。", "少女抱着襁褓，沿杨树大道走向看守所"),
